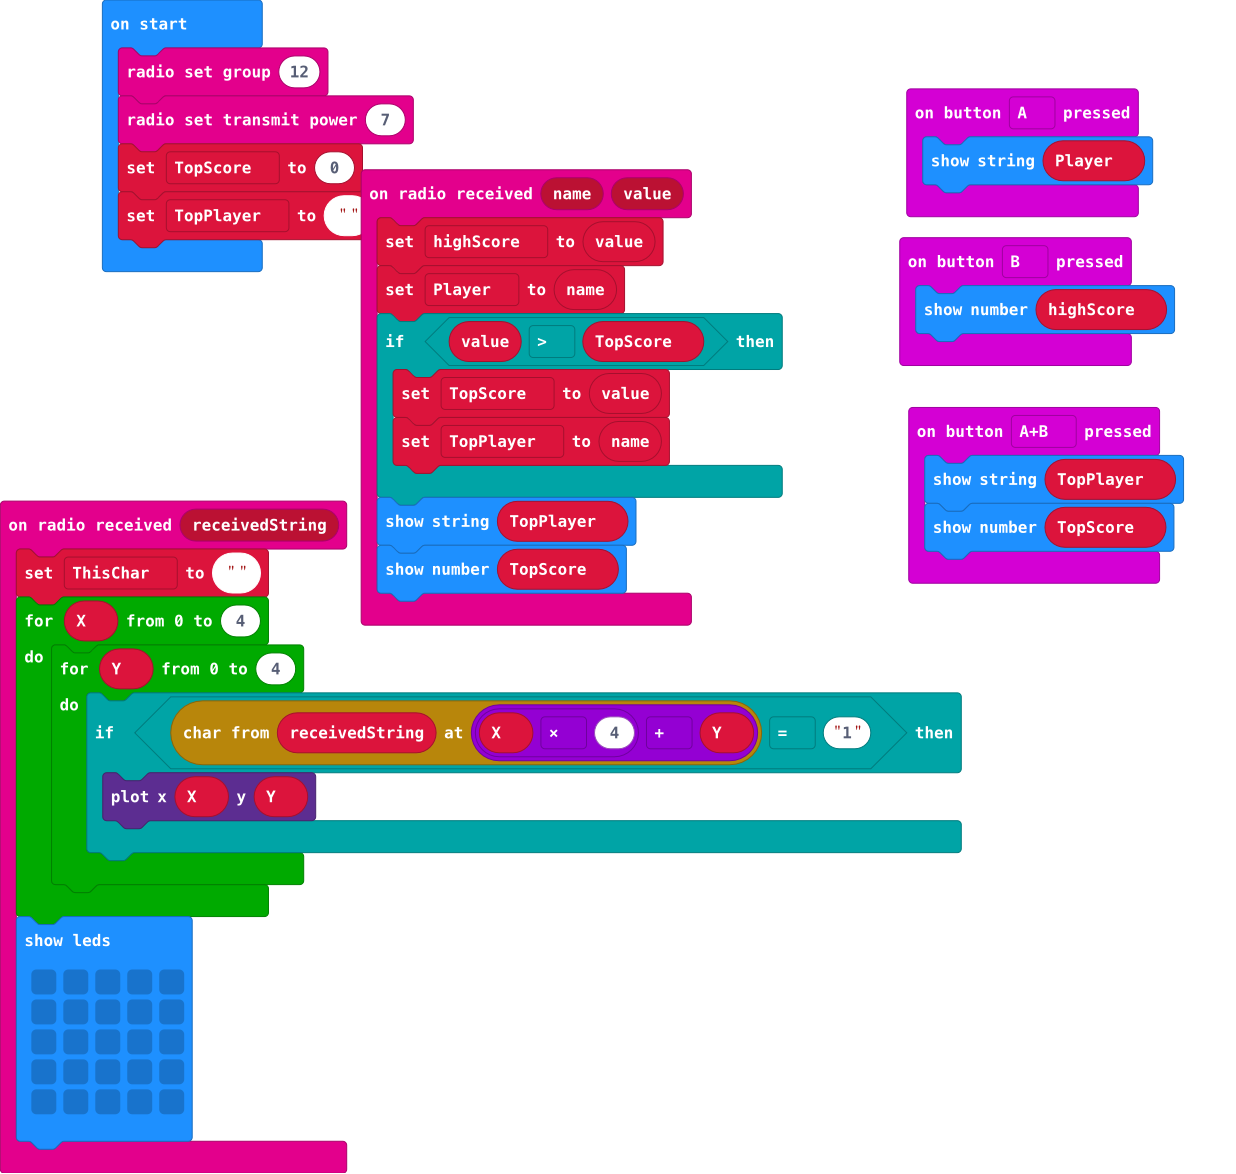
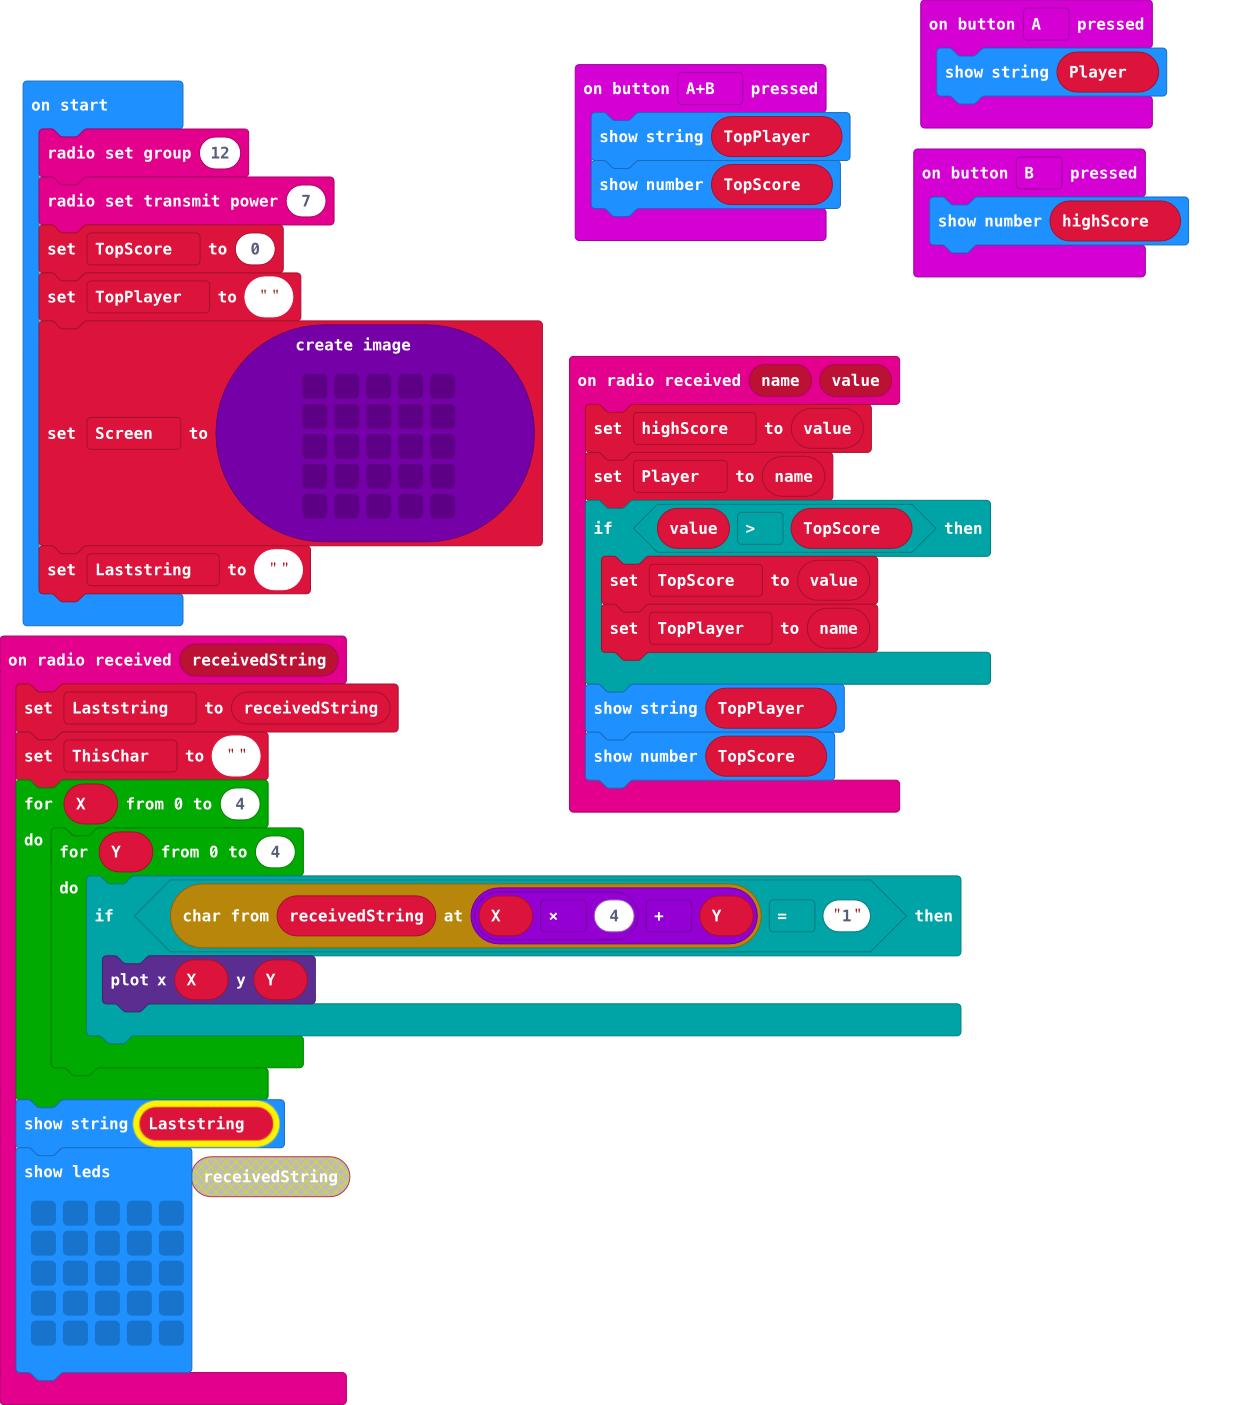
try again

diff --git a/main.ts b/main.ts
@@ -6,6 +6,7 @@ input.onButtonPressed(Button.AB, function () {
     basic.showNumber(TopScore)
 })
 radio.onReceivedString(function (receivedString) {
+    Laststring = receivedString
     ThisChar = ""
     for (let X = 0; X <= 4; X++) {
         for (let Y = 0; Y <= 4; Y++) {
@@ -14,6 +15,7 @@ radio.onReceivedString(function (receivedString) {
             }
         }
     }
+    basic.showString(Laststring)
     basic.showLeds(`
         . . . . .
         . . . . .
@@ -38,9 +40,18 @@ radio.onReceivedValue(function (name, value) {
 let highScore = 0
 let ThisChar = ""
 let Player = ""
+let Laststring = ""
 let TopPlayer = ""
 let TopScore = 0
 radio.setGroup(12)
 radio.setTransmitPower(7)
 TopScore = 0
 TopPlayer = ""
+let Screen = images.createImage(`
+    . . . . .
+    . . . . .
+    . . . . .
+    . . . . .
+    . . . . .
+    `)
+Laststring = ""
